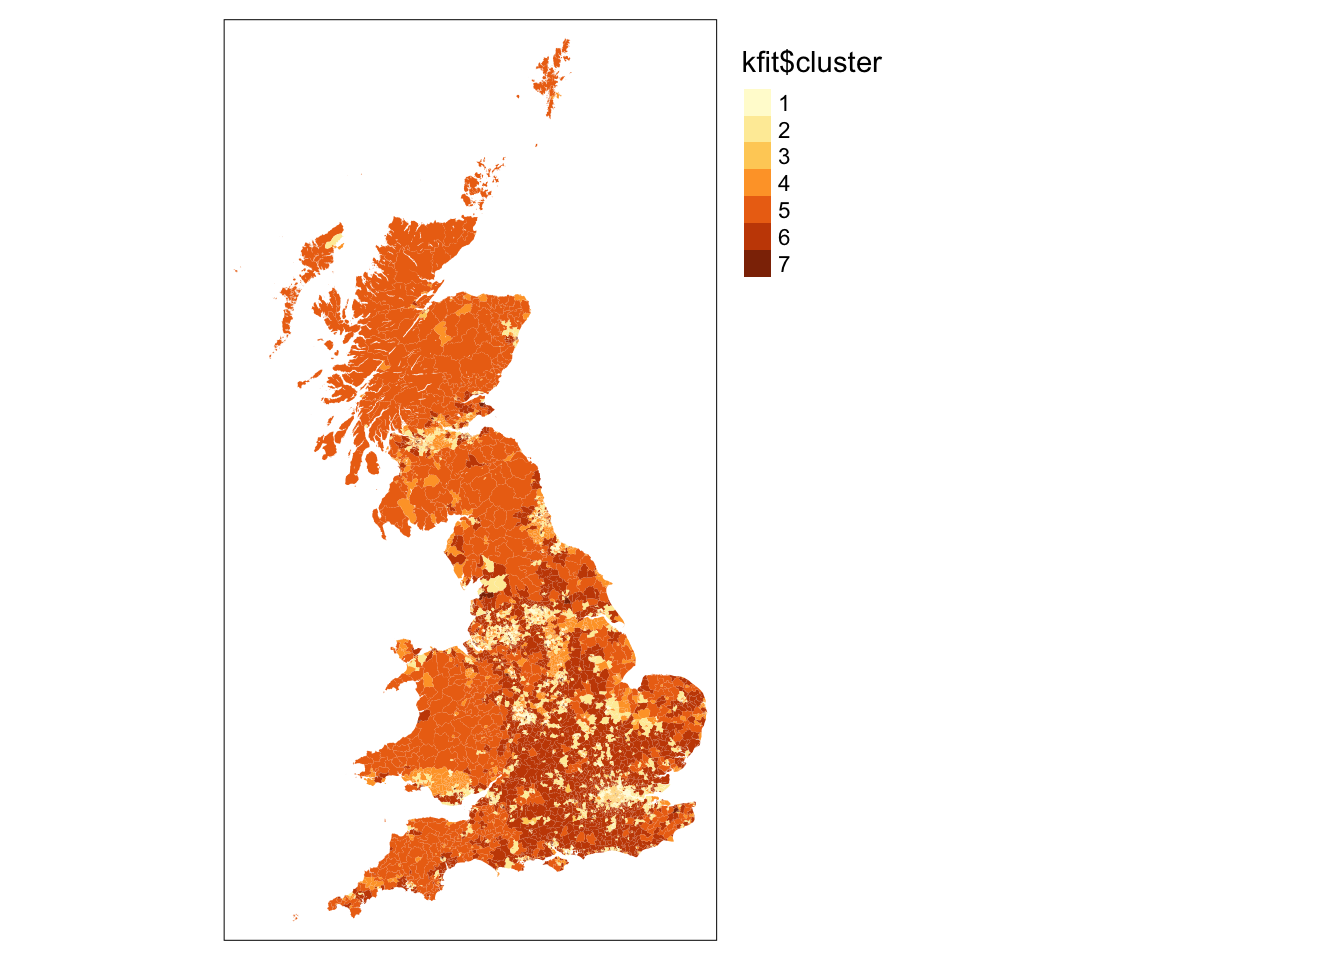
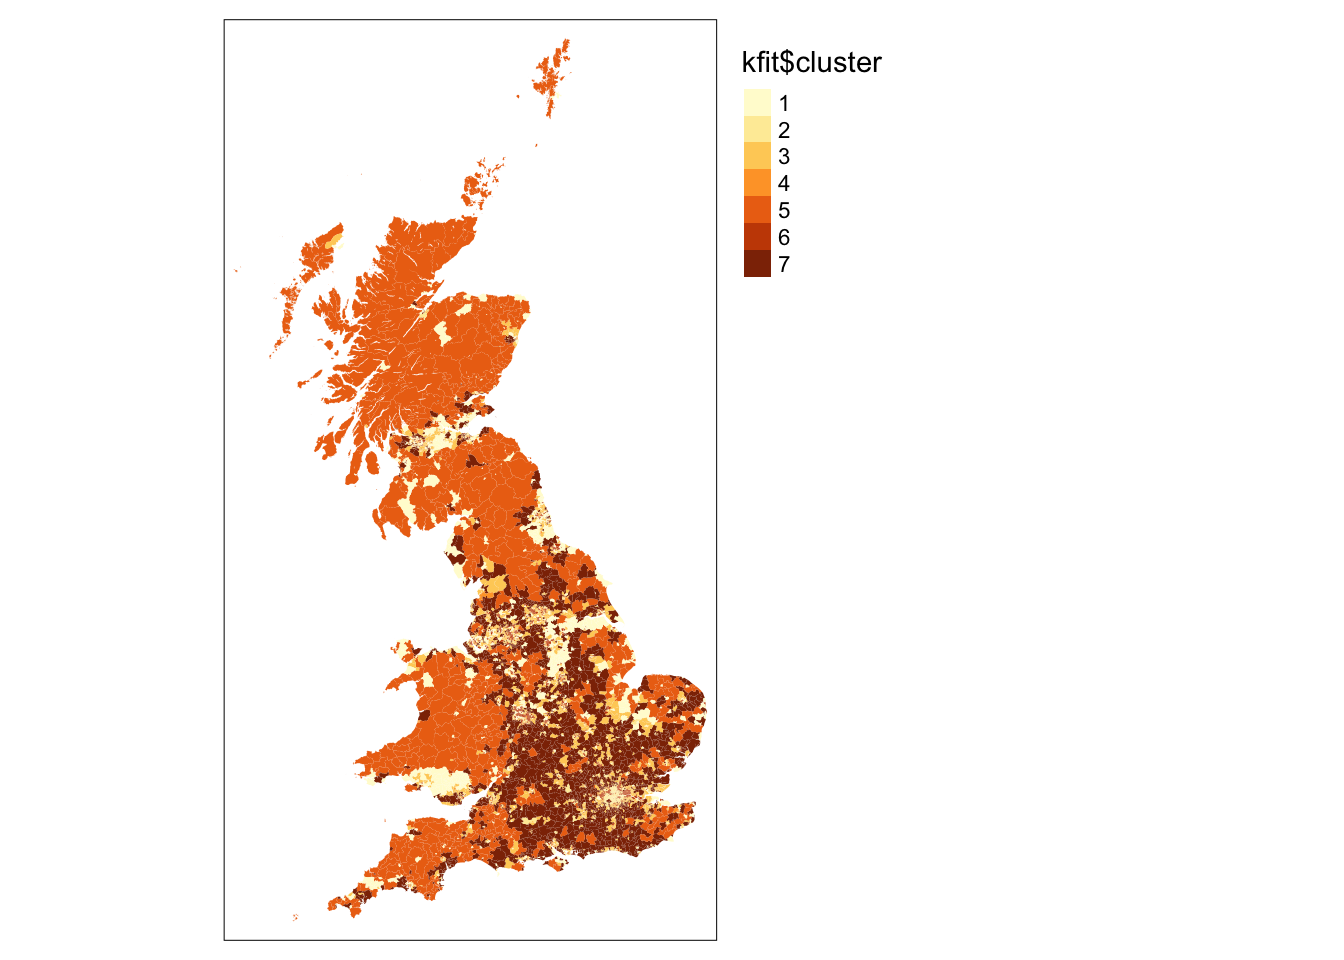
update code layout plots

diff --git a/docs/01-geodemographics.html b/docs/01-geodemographics.html
@@ -706,7 +706,7 @@ First 10 features:
 [1] 110934.1
 
 [[3]]
-[1] 96047.11
+[1] 94944.38
 
 [[4]]
 [1] 82701.63
@@ -730,13 +730,13 @@ First 10 features:
 <span id="cb22-6"><a href="#cb22-6" aria-hidden="true" tabindex="-1"></a></span>
 <span id="cb22-7"><a href="#cb22-7" aria-hidden="true" tabindex="-1"></a><span class="co"># add cluster numbers</span></span>
 <span id="cb22-8"><a href="#cb22-8" aria-hidden="true" tabindex="-1"></a>wss_values<span class="sc">$</span>cluster <span class="ot">&lt;-</span> <span class="fu">seq.int</span>(<span class="fu">nrow</span>(wss_values))</span>
-<span id="cb22-9"><a href="#cb22-9" aria-hidden="true" tabindex="-1"></a><span class="fu">names</span>(wss_values) <span class="ot">&lt;-</span> <span class="fu">c</span>(<span class="st">"wss"</span>,<span class="st">"cluster"</span>)</span>
+<span id="cb22-9"><a href="#cb22-9" aria-hidden="true" tabindex="-1"></a><span class="fu">names</span>(wss_values) <span class="ot">&lt;-</span> <span class="fu">c</span>(<span class="st">"wss"</span>, <span class="st">"cluster"</span>)</span>
 <span id="cb22-10"><a href="#cb22-10" aria-hidden="true" tabindex="-1"></a></span>
 <span id="cb22-11"><a href="#cb22-11" aria-hidden="true" tabindex="-1"></a><span class="co"># plot using ggplot2</span></span>
-<span id="cb22-12"><a href="#cb22-12" aria-hidden="true" tabindex="-1"></a><span class="fu">ggplot</span>(<span class="at">data=</span>wss_values, <span class="fu">aes</span>(<span class="at">x=</span>cluster,<span class="at">y=</span>wss)) <span class="sc">+</span></span>
+<span id="cb22-12"><a href="#cb22-12" aria-hidden="true" tabindex="-1"></a><span class="fu">ggplot</span>(<span class="at">data =</span> wss_values, <span class="fu">aes</span>(<span class="at">x =</span> cluster, <span class="at">y =</span> wss)) <span class="sc">+</span></span>
 <span id="cb22-13"><a href="#cb22-13" aria-hidden="true" tabindex="-1"></a>  <span class="fu">geom_point</span>() <span class="sc">+</span></span>
-<span id="cb22-14"><a href="#cb22-14" aria-hidden="true" tabindex="-1"></a>  <span class="fu">geom_path</span>() <span class="sc">+</span> </span>
-<span id="cb22-15"><a href="#cb22-15" aria-hidden="true" tabindex="-1"></a>  <span class="fu">scale_x_continuous</span>(<span class="at">breaks=</span><span class="fu">seq</span>(<span class="dv">1</span>,<span class="dv">15</span>)) <span class="sc">+</span></span>
+<span id="cb22-14"><a href="#cb22-14" aria-hidden="true" tabindex="-1"></a>  <span class="fu">geom_path</span>() <span class="sc">+</span></span>
+<span id="cb22-15"><a href="#cb22-15" aria-hidden="true" tabindex="-1"></a>  <span class="fu">scale_x_continuous</span>(<span class="at">breaks =</span> <span class="fu">seq</span>(<span class="dv">1</span>, <span class="dv">15</span>)) <span class="sc">+</span></span>
 <span id="cb22-16"><a href="#cb22-16" aria-hidden="true" tabindex="-1"></a>  <span class="fu">xlab</span>(<span class="st">"Number of clusters"</span>) <span class="sc">+</span></span>
 <span id="cb22-17"><a href="#cb22-17" aria-hidden="true" tabindex="-1"></a>  <span class="fu">ylab</span>(<span class="st">"Within sum of squares"</span>) <span class="sc">+</span></span>
 <span id="cb22-18"><a href="#cb22-18" aria-hidden="true" tabindex="-1"></a>  <span class="fu">theme_minimal</span>()</span></code><button title="Copy to Clipboard" class="code-copy-button"><i class="bi"></i></button></pre></div>
@@ -807,7 +807,7 @@ First 10 features:
 <div class="sourceCode cell-code" id="cb25"><pre class="sourceCode r code-with-copy"><code class="sourceCode r"><span id="cb25-1"><a href="#cb25-1" aria-hidden="true" tabindex="-1"></a><span class="co"># inspect</span></span>
 <span id="cb25-2"><a href="#cb25-2" aria-hidden="true" tabindex="-1"></a>clusters</span></code><button title="Copy to Clipboard" class="code-copy-button"><i class="bi"></i></button></pre></div>
 <div class="cell-output cell-output-stdout">
-<pre><code>K-means clustering with 7 clusters of sizes 1106, 2040, 742, 2050, 542, 1814, 186
+<pre><code>K-means clustering with 7 clusters of sizes 2053, 740, 2039, 186, 541, 1107, 1814
 
 Cluster means:
      age0to4pc  age5to14pc age16to24pc age25to44pc age45to64pc age75pluspc
@@ -817,11 +817,11 @@ Cluster means:
  [ reached getOption("max.print") -- omitted 7 rows ]
 
 Clustering vector:
-[1] 3 1 2 2 1
+[1] 2 6 3 3 6
  [ reached getOption("max.print") -- omitted 8475 entries ]
 
 Within cluster sum of squares by cluster:
-[1]  9424.341 11489.776  7818.855 11694.290  6277.839
+[1] 11736.830  7786.692 11471.872  3401.821  6265.986
  [ reached getOption("max.print") -- omitted 2 entries ]
  (between_SS / total_SS =  56.3 %)
 
@@ -847,7 +847,7 @@ Available components:
 <span id="cb27-8"><a href="#cb27-8" aria-hidden="true" tabindex="-1"></a>kfit_size</span></code><button title="Copy to Clipboard" class="code-copy-button"><i class="bi"></i></button></pre></div>
 </div>
 <div class="cell-output cell-output-stdout">
-<pre><code>[1] 1106 2040  742 2050  542
+<pre><code>[1] 2053  740 2039  186  541
  [ reached getOption("max.print") -- omitted 2 entries ]</code></pre>
 </div>
 <div class="sourceCode cell-code" id="cb29"><pre class="sourceCode r code-with-copy"><code class="sourceCode r"><span id="cb29-1"><a href="#cb29-1" aria-hidden="true" tabindex="-1"></a><span class="co"># mean values for each variable in each cluster</span></span>
@@ -860,13 +860,13 @@ Available components:
 <pre><code># A tibble: 7 × 18
   cluster age0to4pc age5to14pc age16to…¹ age25…² age45…³ age75…⁴ 1_hig…⁵ 2_low…⁶
     &lt;int&gt;     &lt;dbl&gt;      &lt;dbl&gt;     &lt;dbl&gt;   &lt;dbl&gt;   &lt;dbl&gt;   &lt;dbl&gt;   &lt;dbl&gt;   &lt;dbl&gt;
-1       1   1.57        1.14      0.382   0.626  -1.13    -0.955 -0.906   -1.26 
-2       2   0.0162      0.118    -0.171   0.0203  0.201   -0.104 -0.0475   0.211
-3       3   0.327      -0.918     0.208   2.04   -1.23    -0.926  1.50     1.26 
-4       4  -0.00623    -0.0805   -0.0519 -0.157   0.0898   0.162 -0.838   -0.851
-5       5  -0.879      -0.149    -0.523  -0.997   1.22     0.553  0.0242   0.225
-6       6  -0.681      -0.0427   -0.465  -0.776   0.767    0.860  0.842    0.890
-7       7  -1.52       -2.68      5.42    0.113  -2.62    -1.28   0.870    0.223
+1       1  -0.00815    -0.0824   -0.0526 -0.158   0.0919   0.164 -0.837   -0.849
+2       2   0.326      -0.923     0.209   2.05   -1.23    -0.927  1.50     1.26 
+3       3   0.0162      0.118    -0.172   0.0189  0.202   -0.103 -0.0481   0.211
+4       4  -1.52       -2.68      5.42    0.113  -2.62    -1.28   0.870    0.223
+5       5  -0.880      -0.148    -0.523  -0.998   1.22     0.554  0.0251   0.225
+6       6   1.56        1.14      0.381   0.626  -1.13    -0.954 -0.906   -1.26 
+7       7  -0.679      -0.0412   -0.465  -0.773   0.765    0.856  0.845    0.893
 # … with 9 more variables: `3_intermediate_occupations` &lt;dbl&gt;,
 #   `4_employers_small_org` &lt;dbl&gt;, `5_lower_supervisory` &lt;dbl&gt;,
 #   `6_semi_routine` &lt;dbl&gt;, `7_routine` &lt;dbl&gt;, `8_unemployed` &lt;dbl&gt;,
@@ -881,17 +881,19 @@ Available components:
 <pre><strong>R code</strong></pre>
 </div>
 <div class="sourceCode cell-code" id="cb31"><pre class="sourceCode r code-with-copy"><code class="sourceCode r"><span id="cb31-1"><a href="#cb31-1" aria-hidden="true" tabindex="-1"></a><span class="co"># transform shape to tidy format</span></span>
-<span id="cb31-2"><a href="#cb31-2" aria-hidden="true" tabindex="-1"></a>kfit_mean_long <span class="ot">&lt;-</span> <span class="fu">pivot_longer</span>(kfit_mean, <span class="at">cols=</span>(<span class="sc">-</span>cluster))</span>
+<span id="cb31-2"><a href="#cb31-2" aria-hidden="true" tabindex="-1"></a>kfit_mean_long <span class="ot">&lt;-</span> <span class="fu">pivot_longer</span>(kfit_mean, <span class="at">cols =</span> (<span class="sc">-</span>cluster))</span>
 <span id="cb31-3"><a href="#cb31-3" aria-hidden="true" tabindex="-1"></a></span>
-<span id="cb31-4"><a href="#cb31-4" aria-hidden="true" tabindex="-1"></a><span class="co"># plot using ggplot2  </span></span>
-<span id="cb31-5"><a href="#cb31-5" aria-hidden="true" tabindex="-1"></a><span class="fu">ggplot</span>(kfit_mean_long, <span class="fu">aes</span>(<span class="at">x=</span>cluster, <span class="at">y=</span>value, <span class="at">fill=</span>name)) <span class="sc">+</span> </span>
-<span id="cb31-6"><a href="#cb31-6" aria-hidden="true" tabindex="-1"></a>  <span class="fu">geom_bar</span>(<span class="at">stat=</span><span class="st">"identity"</span>, <span class="at">position=</span><span class="st">"dodge"</span>) <span class="sc">+</span></span>
-<span id="cb31-7"><a href="#cb31-7" aria-hidden="true" tabindex="-1"></a>  <span class="fu">scale_x_continuous</span>(<span class="at">breaks=</span><span class="fu">seq</span>(<span class="dv">1</span>,<span class="dv">7</span>,<span class="at">by=</span><span class="dv">1</span>)) <span class="sc">+</span></span>
+<span id="cb31-4"><a href="#cb31-4" aria-hidden="true" tabindex="-1"></a><span class="co"># plot using ggplot2</span></span>
+<span id="cb31-5"><a href="#cb31-5" aria-hidden="true" tabindex="-1"></a><span class="fu">ggplot</span>(kfit_mean_long, <span class="fu">aes</span>(<span class="at">x =</span> cluster, <span class="at">y =</span> value, <span class="at">fill =</span> name)) <span class="sc">+</span></span>
+<span id="cb31-6"><a href="#cb31-6" aria-hidden="true" tabindex="-1"></a>  <span class="fu">geom_bar</span>(<span class="at">stat =</span> <span class="st">"identity"</span>, <span class="at">position =</span> <span class="st">"dodge"</span>) <span class="sc">+</span></span>
+<span id="cb31-7"><a href="#cb31-7" aria-hidden="true" tabindex="-1"></a>  <span class="fu">scale_x_continuous</span>(<span class="at">breaks =</span> <span class="fu">seq</span>(<span class="dv">1</span>, <span class="dv">7</span>, <span class="at">by =</span> <span class="dv">1</span>)) <span class="sc">+</span></span>
 <span id="cb31-8"><a href="#cb31-8" aria-hidden="true" tabindex="-1"></a>  <span class="fu">xlab</span>(<span class="st">"Cluster"</span>) <span class="sc">+</span></span>
 <span id="cb31-9"><a href="#cb31-9" aria-hidden="true" tabindex="-1"></a>  <span class="fu">ylab</span>(<span class="st">"Mean value"</span>) <span class="sc">+</span></span>
 <span id="cb31-10"><a href="#cb31-10" aria-hidden="true" tabindex="-1"></a>  <span class="fu">theme_minimal</span>() <span class="sc">+</span></span>
-<span id="cb31-11"><a href="#cb31-11" aria-hidden="true" tabindex="-1"></a>  <span class="fu">theme</span>(<span class="at">legend.title =</span> <span class="fu">element_blank</span>(),</span>
-<span id="cb31-12"><a href="#cb31-12" aria-hidden="true" tabindex="-1"></a>       <span class="at">legend.position =</span> <span class="st">"bottom"</span>)</span></code><button title="Copy to Clipboard" class="code-copy-button"><i class="bi"></i></button></pre></div>
+<span id="cb31-11"><a href="#cb31-11" aria-hidden="true" tabindex="-1"></a>  <span class="fu">theme</span>(</span>
+<span id="cb31-12"><a href="#cb31-12" aria-hidden="true" tabindex="-1"></a>    <span class="at">legend.title =</span> <span class="fu">element_blank</span>(),</span>
+<span id="cb31-13"><a href="#cb31-13" aria-hidden="true" tabindex="-1"></a>    <span class="at">legend.position =</span> <span class="st">"bottom"</span></span>
+<span id="cb31-14"><a href="#cb31-14" aria-hidden="true" tabindex="-1"></a>  )</span></code><button title="Copy to Clipboard" class="code-copy-button"><i class="bi"></i></button></pre></div>
 </div>
 <div class="cell-output-display">
 <div id="fig-geo-plot-those-clusters-with-a-graph" class="quarto-figure quarto-figure-center anchored">
@@ -918,14 +920,16 @@ Available components:
 <div class="code-with-filename-file">
 <pre><strong>R code</strong></pre>
 </div>
-<div class="sourceCode cell-code" id="cb32"><pre class="sourceCode r code-with-copy"><code class="sourceCode r"><span id="cb32-1"><a href="#cb32-1" aria-hidden="true" tabindex="-1"></a><span class="co"># plot using ggplot2  </span></span>
-<span id="cb32-2"><a href="#cb32-2" aria-hidden="true" tabindex="-1"></a><span class="fu">ggplot</span>(kfit_mean_long[kfit_mean_long<span class="sc">$</span>cluster<span class="sc">==</span><span class="dv">1</span>,], <span class="fu">aes</span>(<span class="at">x=</span>cluster, <span class="at">y=</span>value, <span class="at">fill=</span>name)) <span class="sc">+</span> </span>
-<span id="cb32-3"><a href="#cb32-3" aria-hidden="true" tabindex="-1"></a>  <span class="fu">geom_bar</span>(<span class="at">stat=</span><span class="st">"identity"</span>, <span class="at">position=</span><span class="st">"dodge"</span>) <span class="sc">+</span></span>
+<div class="sourceCode cell-code" id="cb32"><pre class="sourceCode r code-with-copy"><code class="sourceCode r"><span id="cb32-1"><a href="#cb32-1" aria-hidden="true" tabindex="-1"></a><span class="co"># plot using ggplot2</span></span>
+<span id="cb32-2"><a href="#cb32-2" aria-hidden="true" tabindex="-1"></a><span class="fu">ggplot</span>(kfit_mean_long[kfit_mean_long<span class="sc">$</span>cluster <span class="sc">==</span> <span class="dv">1</span>, ], <span class="fu">aes</span>(<span class="at">x =</span> cluster, <span class="at">y =</span> value, <span class="at">fill =</span> name)) <span class="sc">+</span></span>
+<span id="cb32-3"><a href="#cb32-3" aria-hidden="true" tabindex="-1"></a>  <span class="fu">geom_bar</span>(<span class="at">stat =</span> <span class="st">"identity"</span>, <span class="at">position =</span> <span class="st">"dodge"</span>) <span class="sc">+</span></span>
 <span id="cb32-4"><a href="#cb32-4" aria-hidden="true" tabindex="-1"></a>  <span class="fu">xlab</span>(<span class="st">"Cluster"</span>) <span class="sc">+</span></span>
 <span id="cb32-5"><a href="#cb32-5" aria-hidden="true" tabindex="-1"></a>  <span class="fu">ylab</span>(<span class="st">"Mean value"</span>) <span class="sc">+</span></span>
 <span id="cb32-6"><a href="#cb32-6" aria-hidden="true" tabindex="-1"></a>  <span class="fu">theme_minimal</span>() <span class="sc">+</span></span>
-<span id="cb32-7"><a href="#cb32-7" aria-hidden="true" tabindex="-1"></a>  <span class="fu">theme</span>(<span class="at">legend.title =</span> <span class="fu">element_blank</span>(),</span>
-<span id="cb32-8"><a href="#cb32-8" aria-hidden="true" tabindex="-1"></a>       <span class="at">legend.position =</span> <span class="st">"bottom"</span>)</span></code><button title="Copy to Clipboard" class="code-copy-button"><i class="bi"></i></button></pre></div>
+<span id="cb32-7"><a href="#cb32-7" aria-hidden="true" tabindex="-1"></a>  <span class="fu">theme</span>(</span>
+<span id="cb32-8"><a href="#cb32-8" aria-hidden="true" tabindex="-1"></a>    <span class="at">legend.title =</span> <span class="fu">element_blank</span>(),</span>
+<span id="cb32-9"><a href="#cb32-9" aria-hidden="true" tabindex="-1"></a>    <span class="at">legend.position =</span> <span class="st">"bottom"</span></span>
+<span id="cb32-10"><a href="#cb32-10" aria-hidden="true" tabindex="-1"></a>  )</span></code><button title="Copy to Clipboard" class="code-copy-button"><i class="bi"></i></button></pre></div>
 </div>
 <div class="cell-output-display">
 <div id="fig-geo-plot-those-clusters-with-a-graph-just-one" class="quarto-figure quarto-figure-center anchored">
